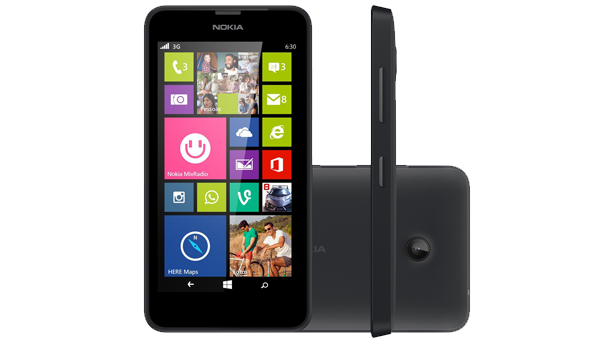
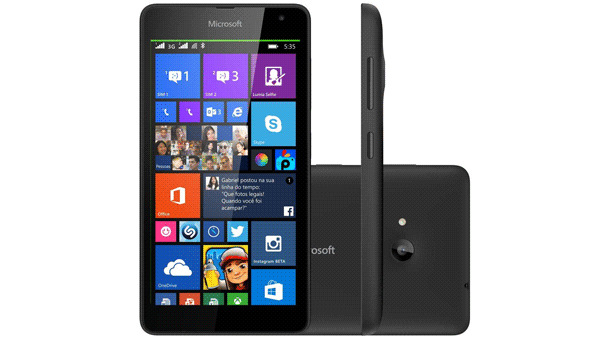
Atualizado palestrante e prêmio

Changed region(s): [[0.217, 0.0, 0.7749, 1.0]]

diff --git a/EventoAspNetBr/EventoAspNetBr/app/pages/static/home.html b/EventoAspNetBr/EventoAspNetBr/app/pages/static/home.html
@@ -124,7 +124,7 @@
                             <h4 class="accordion-title">Entity Framework 7</h4>
                             <span class="fa fa-plus-circle pull-right"></span>
                         </accordion-heading>
-                        <h4>Rodrigo Kono (MVP)</h4>
+                        <h4>Fabrício Sanchez (MVP)</h4>
                         <h5>Conheça o Entity Framework 7. Nova arquitetura, suporte a novas tecnologias e performance superior.</h5>
                     </accordion-group>
 
@@ -165,11 +165,7 @@
                         </accordion-heading>
                         <p>Encerramento do evento com participação dos patrocinadores e sorteio dos prêmios.</p>
                     </accordion-group>
-
                 </accordion>
-
-
-
             </tab>
         </tabset>
     </div>
@@ -261,15 +257,15 @@
         <div class="speaker">
             <div class="speaker-info">
                 <div class="speaker-photo">
-                    <img width="220" height="220" src="img/Rodrigo-Kono.jpg" alt="Rodrigo Kono" />
+                    <img width="220" height="220" src="img/Fabricio-Sanchez.jpg" alt="Fabrício Sanchez" />
                 </div>
                 <div class="speaker-contacts">
-                    <a href="https://www.facebook.com/rodrigokono" class="contact pull-left fa fa-facebook"></a>
-                    <a href="https://twitter.com/rodrigokono" class="contact pull-right fa fa-twitter"></a>
+                    <a href="https://www.facebook.com/fabriciolopessanchez" class="contact pull-left fa fa-facebook"></a>
+                    <a href="https://twitter.com/SanchezFabricio" class="contact pull-right fa fa-twitter"></a>
                 </div>
             </div>
-            <h3>Rodrigo Kono</h3>
-            <p>Desenvolvedor Especialista em Web e Microsoft MVP.</p>
+            <h3>Fabrício Sanchez</h3>
+            <p>CEO na Conio e Microsoft MVP.</p>
         </div>
     </div>
     <div class="col-md-4 col-sm-6">
@@ -390,7 +386,7 @@
         <h4>No final do evento serão sorteados brindes e prêmios para os participantes que estiverem presentes. Serão sorteados: </h4>
         <ul>
             <li>1 Xbox One</li>
-            <li>2 Lumia 630</li>
+            <li>2 Lumia 535</li>
             <li>1 Curso de ASP.NET</li>
             <li>1 Curso de Arquitetura de Software</li>
         </ul>
